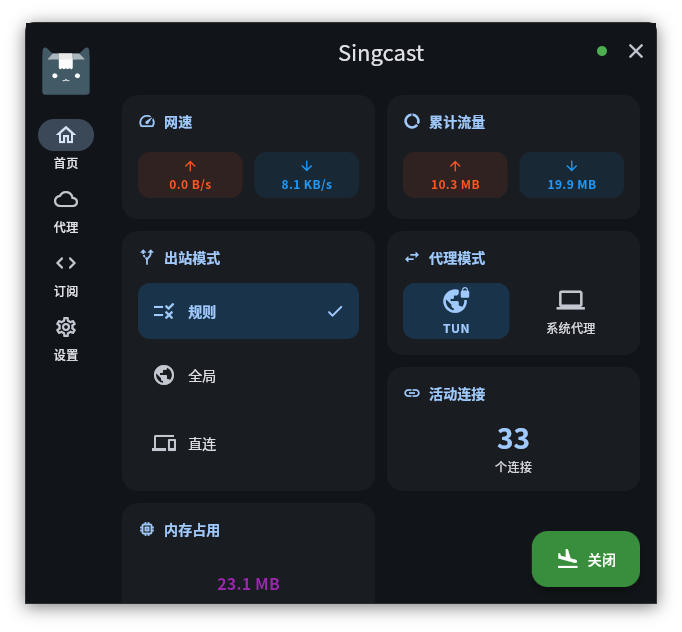
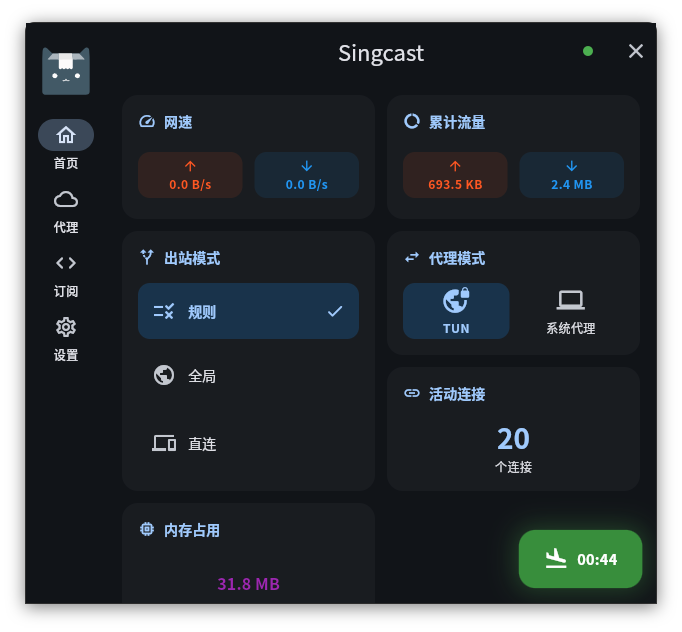
docs: 重写 README，更新项目介绍和架构说明

diff --git a/README.md b/README.md
@@ -1,74 +1,82 @@
 # Singcast
 
-这是一个多平台代理客户端，支持 Windows、Linux、macOS、Android。
+<p align="center">
+  <img src="assets/logo.svg" width="128">
+</p>
+
+基于 [sing-box](https://github.com/SagerNet/sing-box) 高性能内核的多平台代理客户端，通过 sing-box 支持 Clash 配置，简单易用。
+
+支持 Windows、Linux、macOS、Android。
 
 > [使用说明](https://mapleafgo.github.io/clash-for-flutter)
 
-## 界面
+## 预览
 
 ![主页](./docs/images/home_page.png)
 
-![代理页](./docs/images/proxy_page.png)
+## 功能
 
-![日志页](./docs/images/log_page.png)
+- 支持 Clash 订阅和配置文件
+- 支持系统代理和 TUN 模式（全局透明代理）
+- 代理节点选择与延迟测速
+- 实时流量统计
+- 订阅管理，支持导入和更新订阅链接
+- 日志查看与导出
+- 桌面端系统托盘
 
-![连接页](./docs/images/connect_page.png)
+## 使用
 
-![订阅页](./docs/images/profile_page.png)
+### Linux
 
-![设置页](./docs/images/settings_page.png)
+使用前请确保安装以下依赖
 
-## 开发说明
+```bash
+sudo apt-get install libayatana-appindicator3-dev
+```
 
-- 基础环境
+### 下载
 
-  `Flutter v3.41+`
+[GitHub Releases](https://github.com/mapleafgo/clash-for-flutter/releases/latest)
 
-  > 对目标平台时，需要参照 Flutter 官方文档进行对应平台的环境搭建。如 Android 开发时，需要 Android-SDK
+## 构建
 
-  > `Linux` 环境下需要 `libayatana-appindicator3-dev`
+1. 安装 `Flutter v3.41+` 环境
 
-- 下载内核
+   > 针对目标平台时，需要参照 Flutter 官方文档进行对应平台的环境搭建。如 Android 开发时，需要 Android SDK
 
-  从 https://github.com/mapleafgo/cff-core/releases/latest 下载对应平台需要的内核，
-  然后将解压出来的内核文件移动到对应的路径，各平台路径如下:
+2. 下载内核
 
-  ```shell
-  # Windows
-  windows/core/libsingcast-windows.dll
-  # Linux
-  linux/core/libsingcast-linux.so
-  # Android
-  android/app/libs/libsingcast.aar
-  # macOS
-  macos/Frameworks/libsingcast-darwin.dylib
-  ```
+   从 [cff-core Releases](https://github.com/mapleafgo/cff-core/releases/latest) 下载对应平台的内核，放置到以下路径：
 
-  > 内核基于 sing-box 进行二次开发，支持 TUN 模式和代理模式
+   ```shell
+   # 桌面端 (IPC 独立进程)
+   windows/core/singcast-core.exe
+   linux/core/singcast-core
+   macos/Frameworks/singcast-core
 
-- 编译项目
+   # 移动端 (FFI 原生库)
+   android/app/libs/libsingcast.aar
+   ios/Frameworks/libsingcast-darwin.xcframework
+   ```
 
-  ```shell
-  # 1. 获取项目依赖
-  flutter pub get
-  # 2. 生成 .g.dart 文件
-  dart run build_runner build --delete-conflicting-outputs
+3. 编译运行
 
-  # 3. 运行项目 (linux)
-  flutter run -d linux
-  # 3. 运行项目 (windows)
-  flutter run -d windows
-  # 3. 运行项目 (android)
-  flutter run -d android
-  # 3. 运行项目 (macos)
-  flutter run -d macos
-  ```
+   ```shell
+   # 获取依赖
+   flutter pub get
+   # 生成代码
+   dart run build_runner build --delete-conflicting-outputs
+   # 运行
+   flutter run -d linux
+   ```
 
 ## 主要技术
 
 - [sing-box](https://github.com/SagerNet/sing-box)
 - [Flutter](https://flutter.dev)
 - [signals_flutter](https://github.com/rodydavis/signals.dart)
+- [go_router](https://pub.dev/packages/go_router)
 - [window_manager](https://github.com/leanflutter/window_manager)
-- [proxy_manager](https://github.com/Kingtous/proxy_manager)
-- [dart_ffi](https://dart.dev/guides/libraries/c-interop)
+- [desktop_tray](https://pub.dev/packages/desktop_tray)
+- [dart_ipc](https://pub.dev/packages/dart_ipc)
+- [ffi](https://dart.dev/guides/libraries/c-interop)
